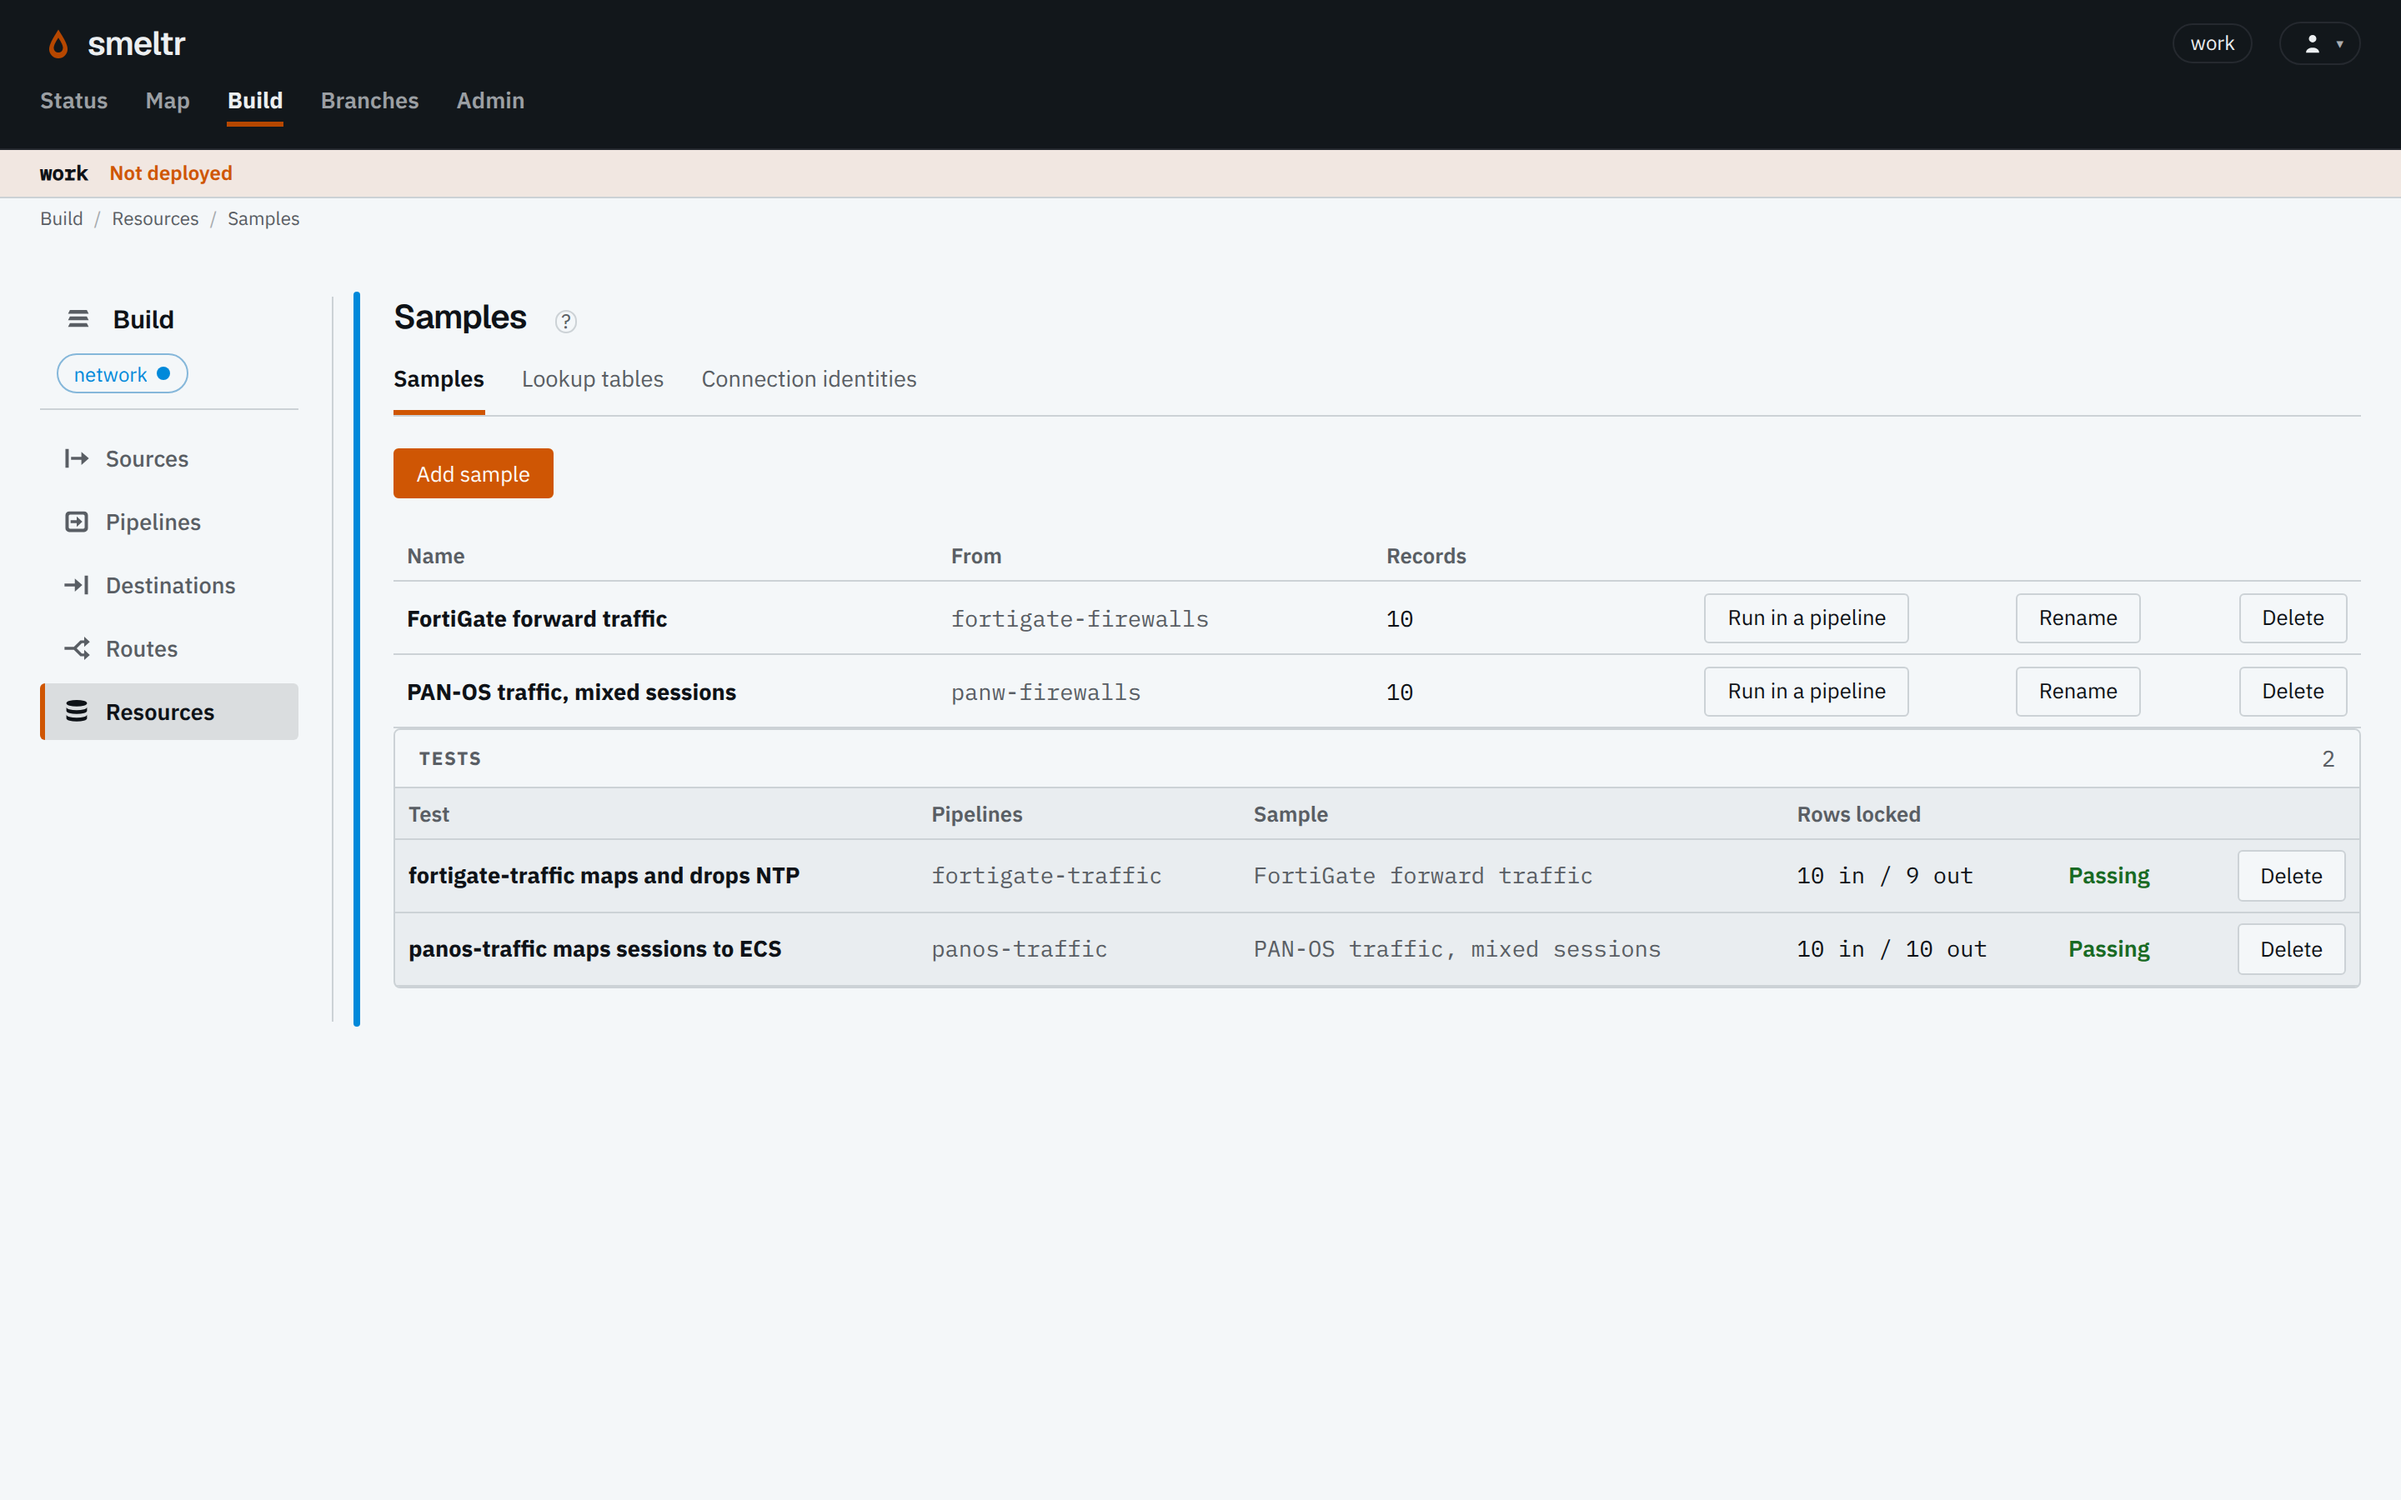
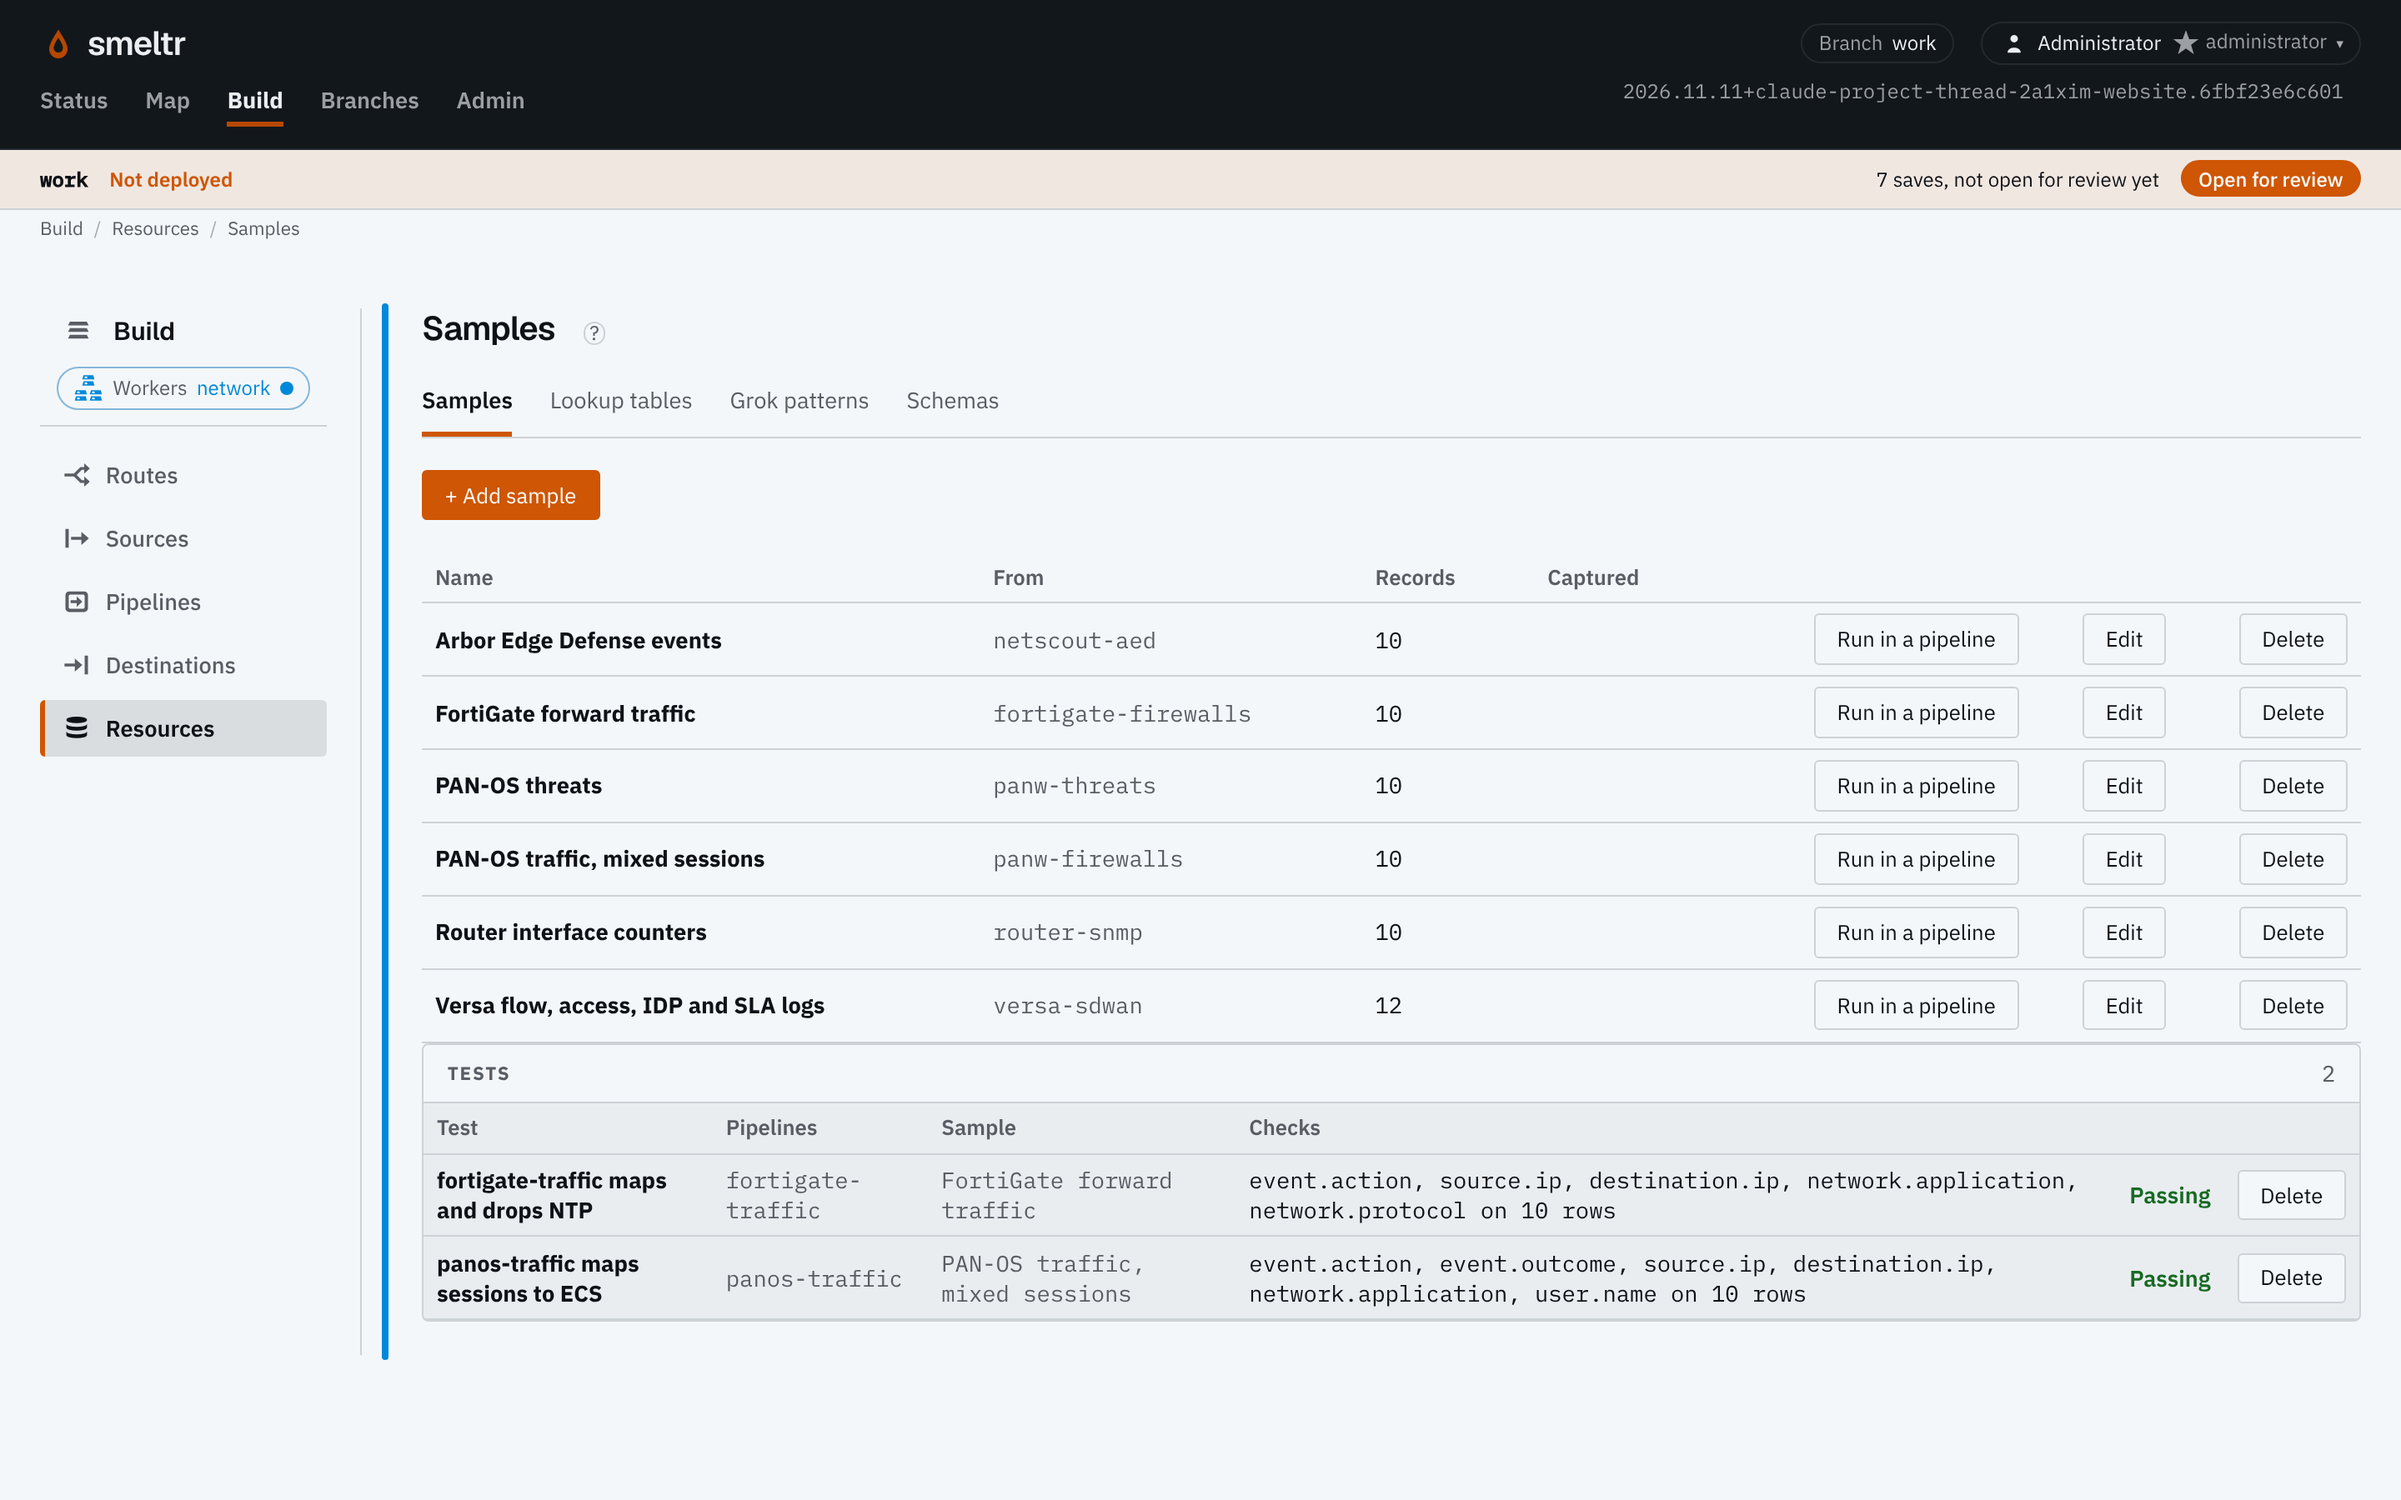
Website: a test checks the fields and rows chosen for it (#676)
The Verify section says how to choose what a test checks and what a
failure says, over a new screenshot of tests listing their checks. The
review checklist asks what a new or relocked test checks.

Claude-Session: https://claude.ai/code/session_016X7h2SourPsiQMwkn8Tuzu

diff --git a/website/src/routes/docs/steps/+page.svelte b/website/src/routes/docs/steps/+page.svelte
@@ -72,15 +72,18 @@
 
   <h2 id="verify">Verify</h2>
   <p>
-    Once the preview is right, choose <strong>Lock this as a test</strong>. A regression test checks
-    that later edits still produce that result, including which records the pipeline drops. Open
-    Resources → Samples to run every test again and see whether each still gives its locked output.
+    Once the preview is right, show the fields that matter with <strong>Fields</strong>, narrow the
+    rows with the find box, and choose <strong>Lock this as a test</strong>. The test checks those
+    fields on those rows, and whether each row is dropped, and nothing else, so an edit elsewhere
+    leaves it passing. A sample can carry several tests, each checking its own fields and rows. Open
+    Resources → Samples to run every test again. A failing test names the row and the field, what it
+    expected and what it got.
   </p>
   <ProductScreenshot
     source="build-tests"
     height={1800}
-    alt="Samples page with two passing firewall pipeline tests. One expects ten records in and nine out; the other expects ten in and ten out."
-    caption="A passing test can include dropped records: the first test expects 10 inputs and 9 outputs."
+    alt="Samples page with two passing firewall pipeline tests, each listing the fields it checks on 10 rows."
+    caption="Each test lists the fields it checks."
   />
 
   <h2 id="troubleshooting">Troubleshooting</h2>

diff --git a/website/src/routes/docs/review/+page.svelte b/website/src/routes/docs/review/+page.svelte
@@ -41,8 +41,9 @@
     <li>You have checked affected routes and destinations.</li>
     <li>Samples and changes contain no exposed credentials.</li>
     <li>
-      Each affected pipeline and route has tests for the records it should keep, change, or drop.
-      Add missing tests before deployment.
+      Each affected pipeline and route has tests for the records it should keep, change, or drop,
+      and you have read what each new test checks. Locking a test again approves a new answer. Add
+      missing tests before deployment.
     </li>
     <li>The review includes shared configuration and other worker groups.</li>
     <li>Required secret versions and external credentials are available.</li>

diff --git a/website/src/lib/components/EditorScreenshot.svelte b/website/src/lib/components/EditorScreenshot.svelte
@@ -68,7 +68,7 @@
   <figcaption>
     {focused
       ? 'Details from the running editor, using sample data. This lookup adds a department and full name to each matching record.'
-      : 'Running editor with sample data. Inspect each step’s effect, then lock the expected output as a regression test.'}
+      : 'Running editor with sample data. Inspect each step’s effect, then lock a test of the fields that matter.'}
   </figcaption>
 </figure>
 
